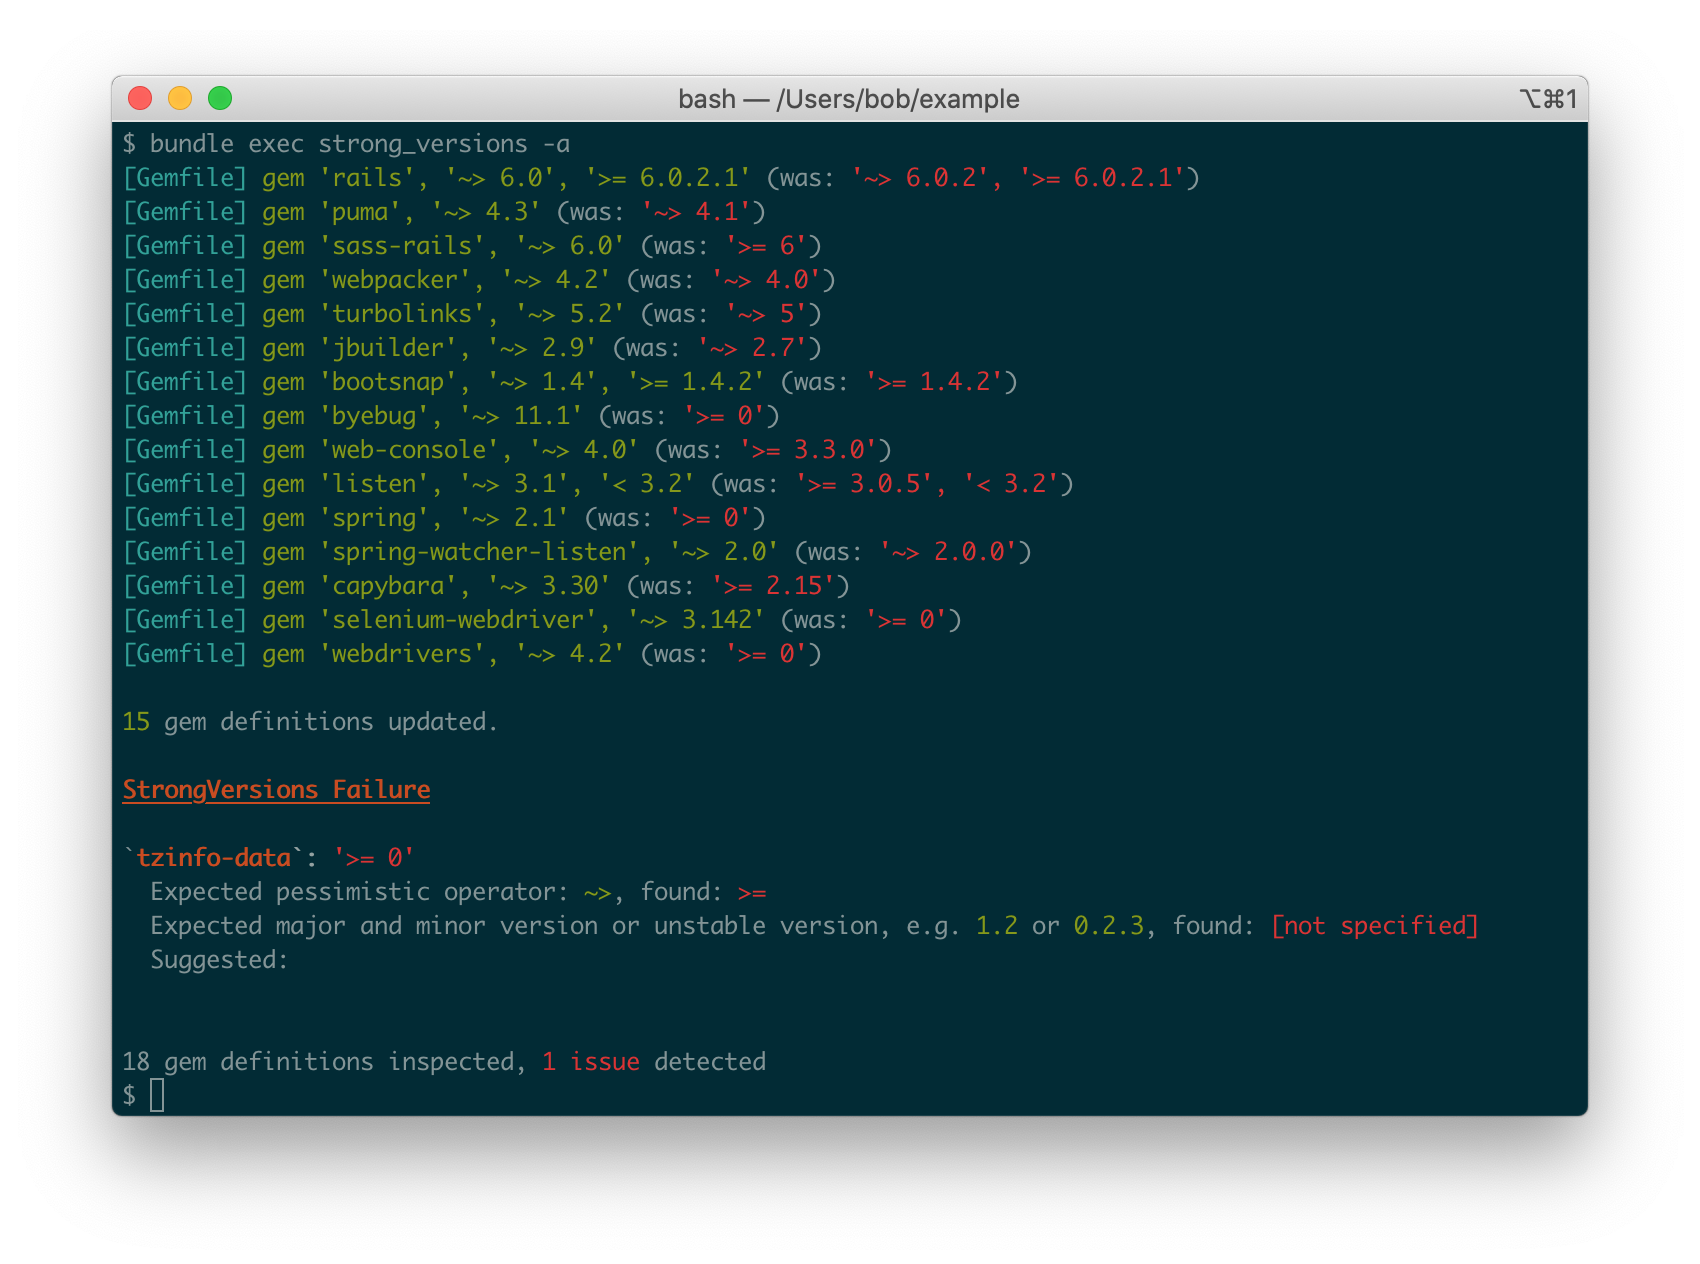
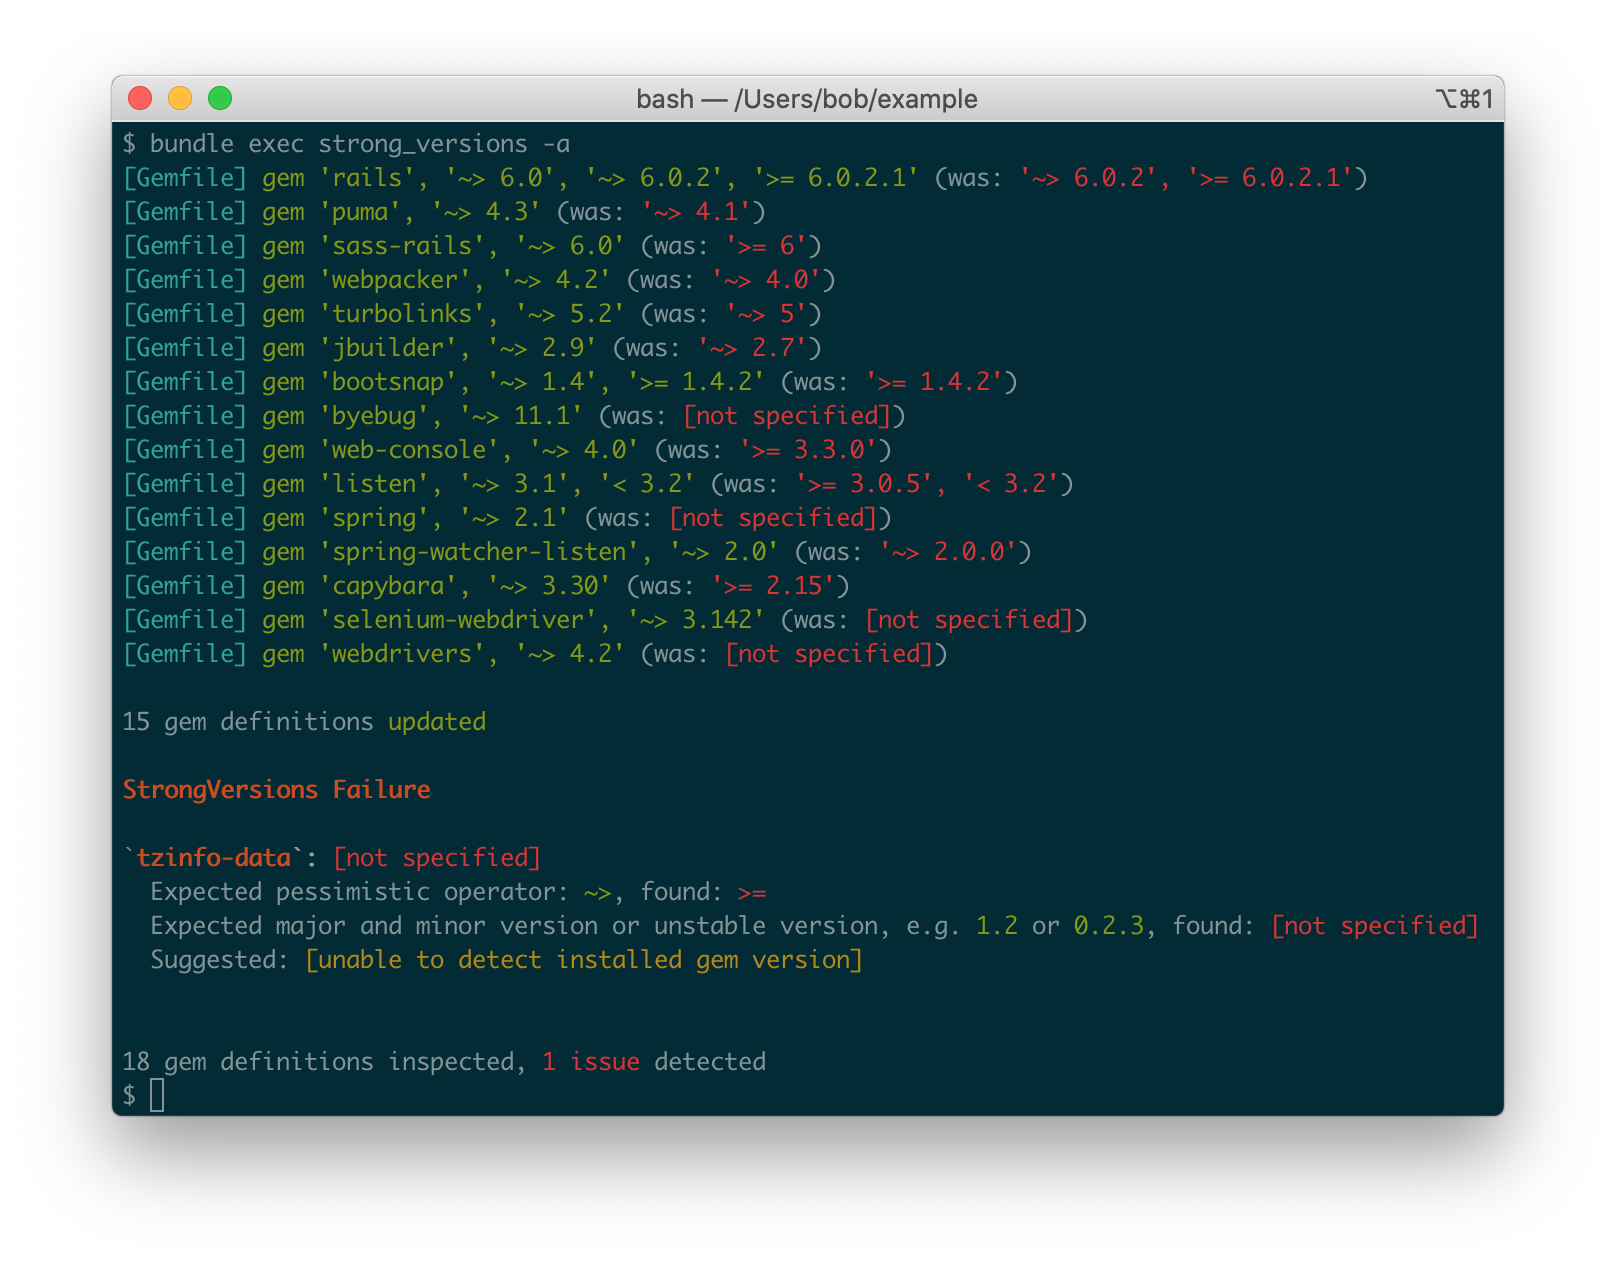
Tidy up misc. loose ends and polish ready for release

diff --git a/lib/strong_versions/dependency.rb b/lib/strong_versions/dependency.rb
@@ -10,9 +10,7 @@ module StrongVersions
       @errors = []
       @lockfile = lockfile || default_lockfile
 
-      versions.each do |operator, version|
-        validate_version(operator, version)
-      end
+      versions.each { |operator, version| validate_version(operator, version) }
     end
 
     def gemfile
@@ -29,33 +27,29 @@ module StrongVersions
 
     def suggested_definition
       guards = guard_versions.map { |op, version| "'#{op} #{version}'" }
-      combined = [suggestion, *guards].join(', ')
-      "gem '#{@name}', #{combined}"
+      "gem '#{@name}', #{[suggestion, *guards].join(', ')}"
     end
 
     def definition
-      versions.map { |operator, version| "'#{operator} #{version}'" }.join(', ')
+      versions.map do |operator, version|
+        next t('version_not_specified') if operator == '>=' && version == '0'
+
+        "'#{operator} #{version}'"
+      end.join(', ')
     end
 
     def updatable?
-      return false unless gemfile
-      return false if suggestion.missing?
-      return false if path_source?
-
-      true
+      gemfile && !suggestion.missing? && !path_source?
     end
 
     private
 
     def versions
-      @dependency.requirements_list.map do |requirement|
-        parse_version(requirement)
-      end
+      @dependency.requirements_list.map { |version| parse_version(version) }
     end
 
     def guard_versions
-      versions.reject { |op, _version| pessimistic?(op) }
-              .reject { |op, version| redundant?(op, version) }
+      versions.reject { |op, version| redundant?(op, version) }
     end
 
     def parse_version(requirement)
@@ -99,26 +93,22 @@ module StrongVersions
     def check_valid_version(version)
       return if valid_version?(version)
 
-      value = if version == '0'
-                I18n.t('strong_versions.version_not_specified')
-              else
-                version
-              end
+      value = version == '0' ? t('version_not_specified') : version
       @errors << { type: :version, value: value }
     end
 
     def redundant?(operator, version)
-      return false unless operator.start_with?('>')
+      return false unless operator.start_with?('>') || pessimistic?(operator)
 
       multiply_version(version) <= multiply_version(suggestion.version)
     end
 
     def multiply_version(version)
-      components = version.split('.')
       # Support extremely precise versions e.g. '1.2.3.4.5.6.7.8.9'
-      components += ['0'] * (10 - components.size)
+      components = version.split('.').map(&:to_i)
+      components += [0] * (10 - components.size)
       components.reverse.each_with_index.map do |component, index|
-        component.to_i * 10.pow(index + 1)
+        component * 10.pow(index + 1)
       end.sum
     end
 
@@ -145,13 +135,8 @@ module StrongVersions
       @dependency.source.is_a?(Bundler::Source::Path)
     end
 
-    def pessimistic_with_upper_bound?(operator)
-      any_pessimistic? && %w[< <=].include?(operator)
-    end
-
-    def any_pessimistic?
-      p versions
-      versions.any? { |operator, _version| pessimistic?(operator) }
+    def t(name)
+      I18n.t("strong_versions.#{name}")
     end
   end
 end

diff --git a/lib/strong_versions/terminal.rb b/lib/strong_versions/terminal.rb
@@ -7,7 +7,7 @@ module StrongVersions
     end
 
     def warn(string)
-      puts(color(string, :underline, :bright, :red))
+      puts(color(string, :bright, :red))
     end
 
     def gem_update(path, gem)
@@ -24,8 +24,8 @@ module StrongVersions
 
     def update_summary(updated)
       output = [
-        color(updated.to_s, :green),
-        color(' gem definitions updated.')
+        "#{updated} gem definitions ",
+        color('updated', :green)
       ].join
       puts("\n#{output}")
     end
@@ -87,13 +87,15 @@ module StrongVersions
 
     def suggestion(gem)
       suggested = '  ' + t('errors.suggested')
-      puts(
-        color(
-          "#{suggested} %{suggestion}",
-          :default,
-          suggestion: [gem.suggestion.to_s, :green]
-        )
-      )
+      puts(color("#{suggested}%{suggestion}", :default,
+                 suggestion: suggestion_definition(gem)))
+    end
+
+    def suggestion_definition(gem)
+      unidentified = gem.suggestion.to_s.empty?
+      return [t('no-suggestion'), :yellow] if unidentified
+
+      [gem.suggestion.to_s, :green]
     end
 
     def name_and_definition(gem)

diff --git a/lib/strong_versions/suggestion.rb b/lib/strong_versions/suggestion.rb
@@ -17,12 +17,13 @@ module StrongVersions
     end
 
     def version
-      major, minor, patch = @parts if standard?
+      return nil unless standard?
 
+      major, minor, patch = @parts
       return "#{major}.#{minor}" if stable?
       return "#{major}.#{minor}.#{patch}" if unstable?
 
-      nil
+      raise 'Unexpected condition met'
     end
 
     def missing?
@@ -44,10 +45,11 @@ module StrongVersions
 
     def standard?(parts = @parts)
       return false if parts.nil?
-      return false unless parts.size == 3
       return false unless numeric?
+      return true if [2, 3].include?(parts.size)
+      return true if parts.size == 3 && unstable?
 
-      true
+      false
     end
 
     def numeric?
